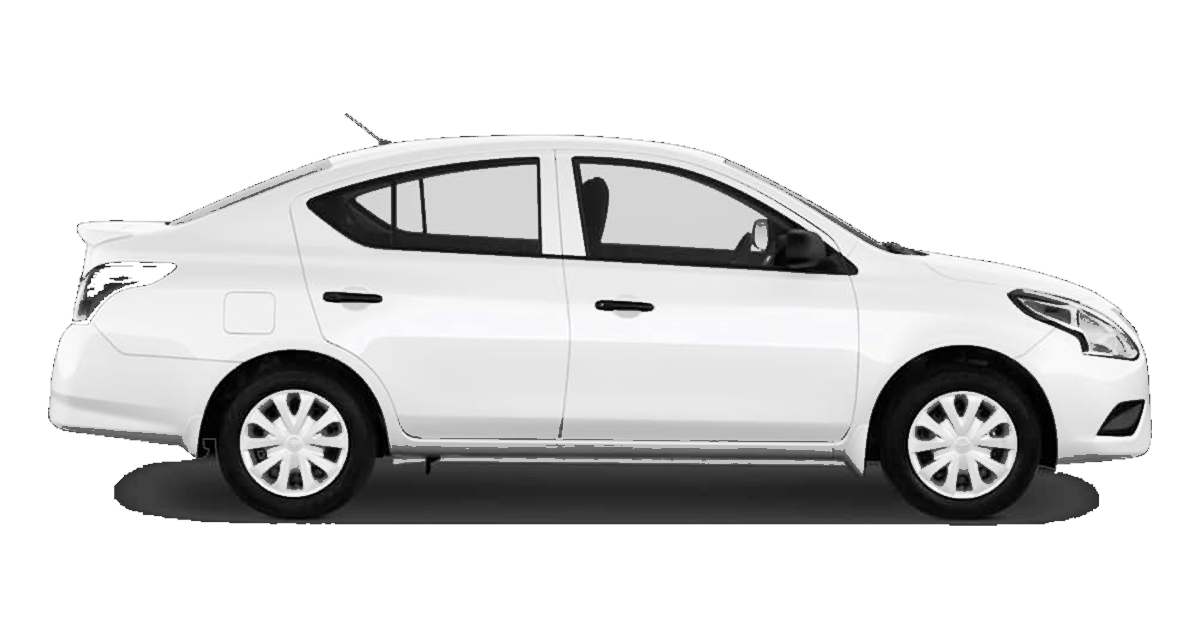
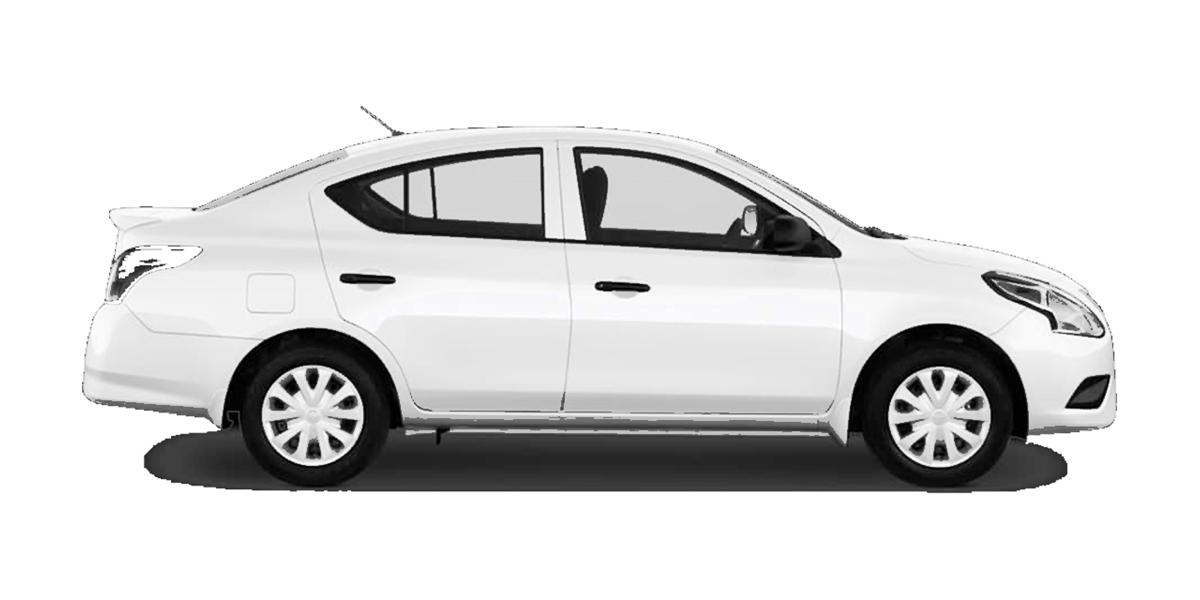
Unify fleet car images: white Ertiga + identical canvas
- Ertiga was grey; lifted its body tones to white while keeping windows/tyres
  dark, so all four cars now read as white
- Placed all four fleet images on an identical 1200x600 white canvas so the
  cards present at the same size/scale (previously each had a different
  aspect ratio, making the cars look inconsistent)
- Cache-bust the four images (?v=6)

diff --git a/index.html b/index.html
@@ -1085,7 +1085,7 @@
         <div class="car-item-card" data-category="sedan">
           <div class="car-badge">Bestseller</div>
           <div class="car-visual-box">
-            <img src="images/fleet-sedan-dzire.png?v=5" alt="White Maruti Dzire sedan side view" class="car-photo-img" loading="lazy" />
+            <img src="images/fleet-sedan-dzire.png?v=6" alt="White Maruti Dzire sedan side view" class="car-photo-img" loading="lazy" />
           </div>
           <div class="car-body-content">
             <h3 class="car-real-name">Maruti Suzuki Dzire / Toyota Etios</h3>
@@ -1112,7 +1112,7 @@
         <div class="car-item-card" data-category="suv">
           <div class="car-badge">Family Favorite</div>
           <div class="car-visual-box">
-            <img src="images/fleet-suv-ertiga.png?v=5" alt="White Maruti Ertiga family SUV side view" class="car-photo-img" loading="lazy" />
+            <img src="images/fleet-suv-ertiga.png?v=6" alt="White Maruti Ertiga family SUV side view" class="car-photo-img" loading="lazy" />
           </div>
           <div class="car-body-content">
             <h3 class="car-real-name">Maruti Ertiga / Kia Carens</h3>
@@ -1139,7 +1139,7 @@
         <div class="car-item-card" data-category="luxury">
           <div class="car-badge vip-badge">Executive Class</div>
           <div class="car-visual-box">
-            <img src="images/fleet-mpv-innova.png?v=5" alt="White Toyota Innova MPV with captain seats" class="car-photo-img" loading="lazy" />
+            <img src="images/fleet-mpv-innova.png?v=6" alt="White Toyota Innova MPV with captain seats" class="car-photo-img" loading="lazy" />
           </div>
           <div class="car-body-content">
             <h3 class="car-real-name">Toyota Innova Crysta / Hycross</h3>
@@ -1166,7 +1166,7 @@
         <div class="car-item-card" data-category="tempo">
           <div class="car-badge">Group Tour</div>
           <div class="car-visual-box">
-            <img src="images/fleet-tempo-traveller.png?v=5" alt="White Force Tempo Traveller 17, 20 and 25 seater group van" class="car-photo-img" loading="lazy" />
+            <img src="images/fleet-tempo-traveller.png?v=6" alt="White Force Tempo Traveller 17, 20 and 25 seater group van" class="car-photo-img" loading="lazy" />
           </div>
           <div class="car-body-content">
             <h3 class="car-real-name">Force Tempo Traveller (17/20/25 Seater)</h3>
